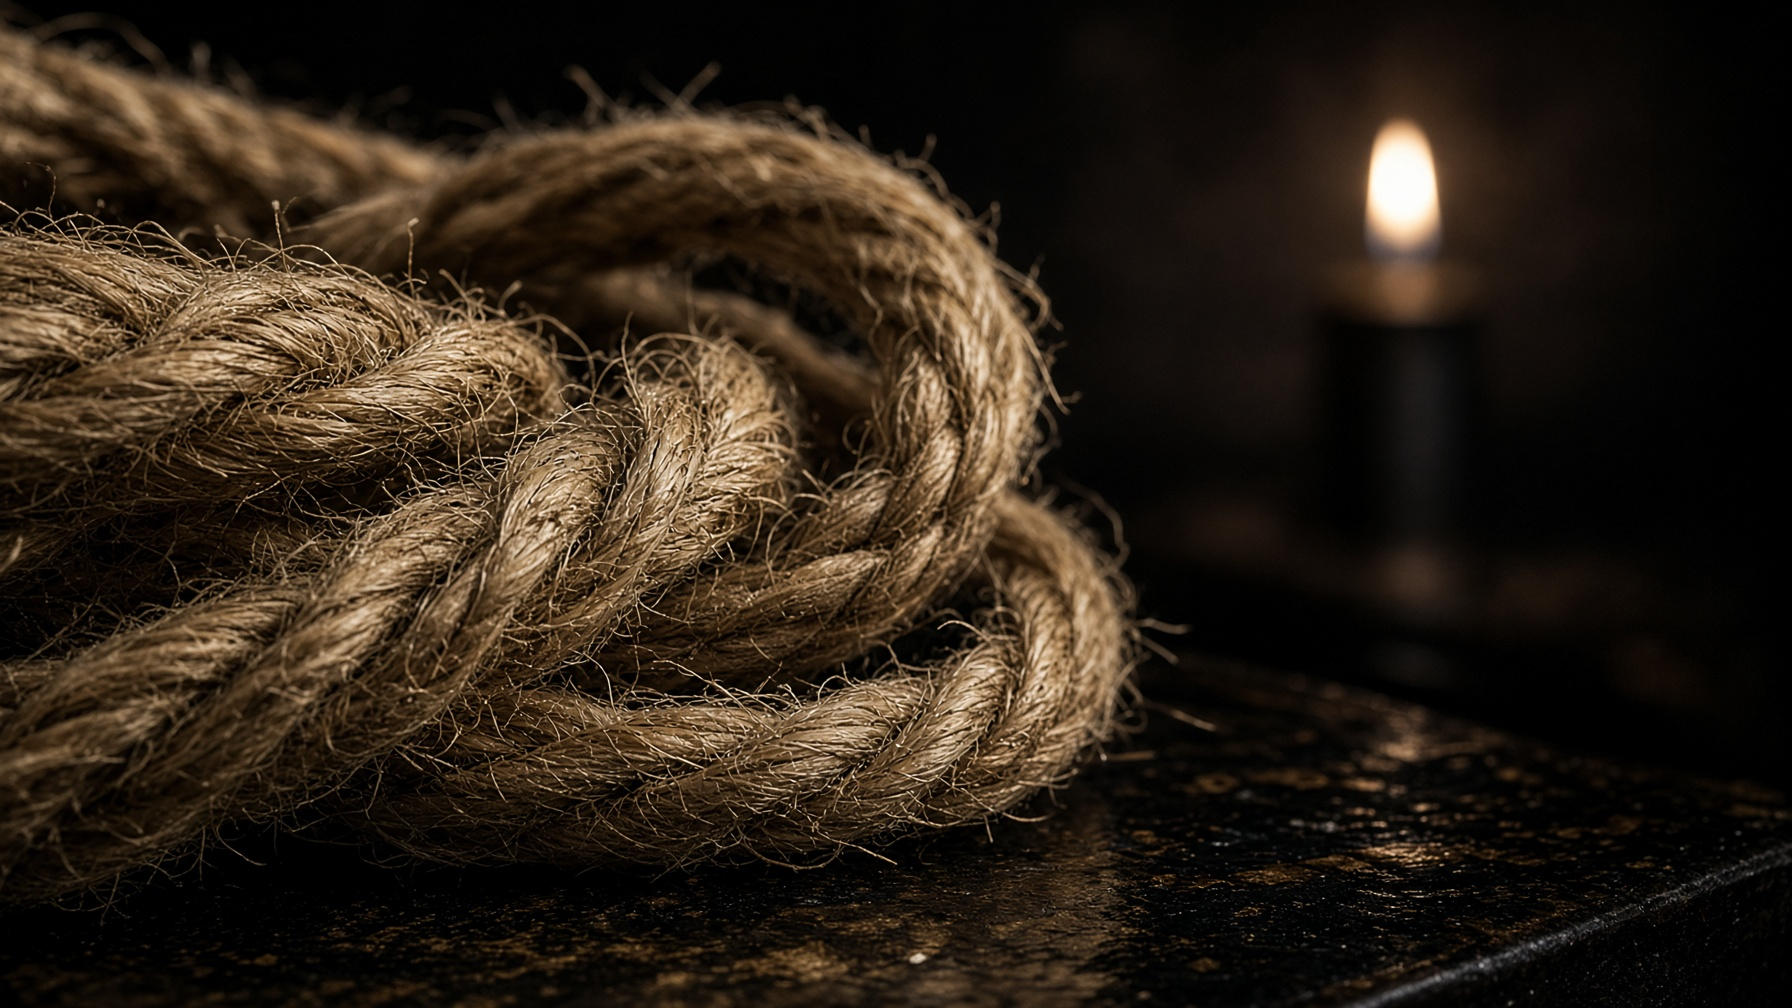
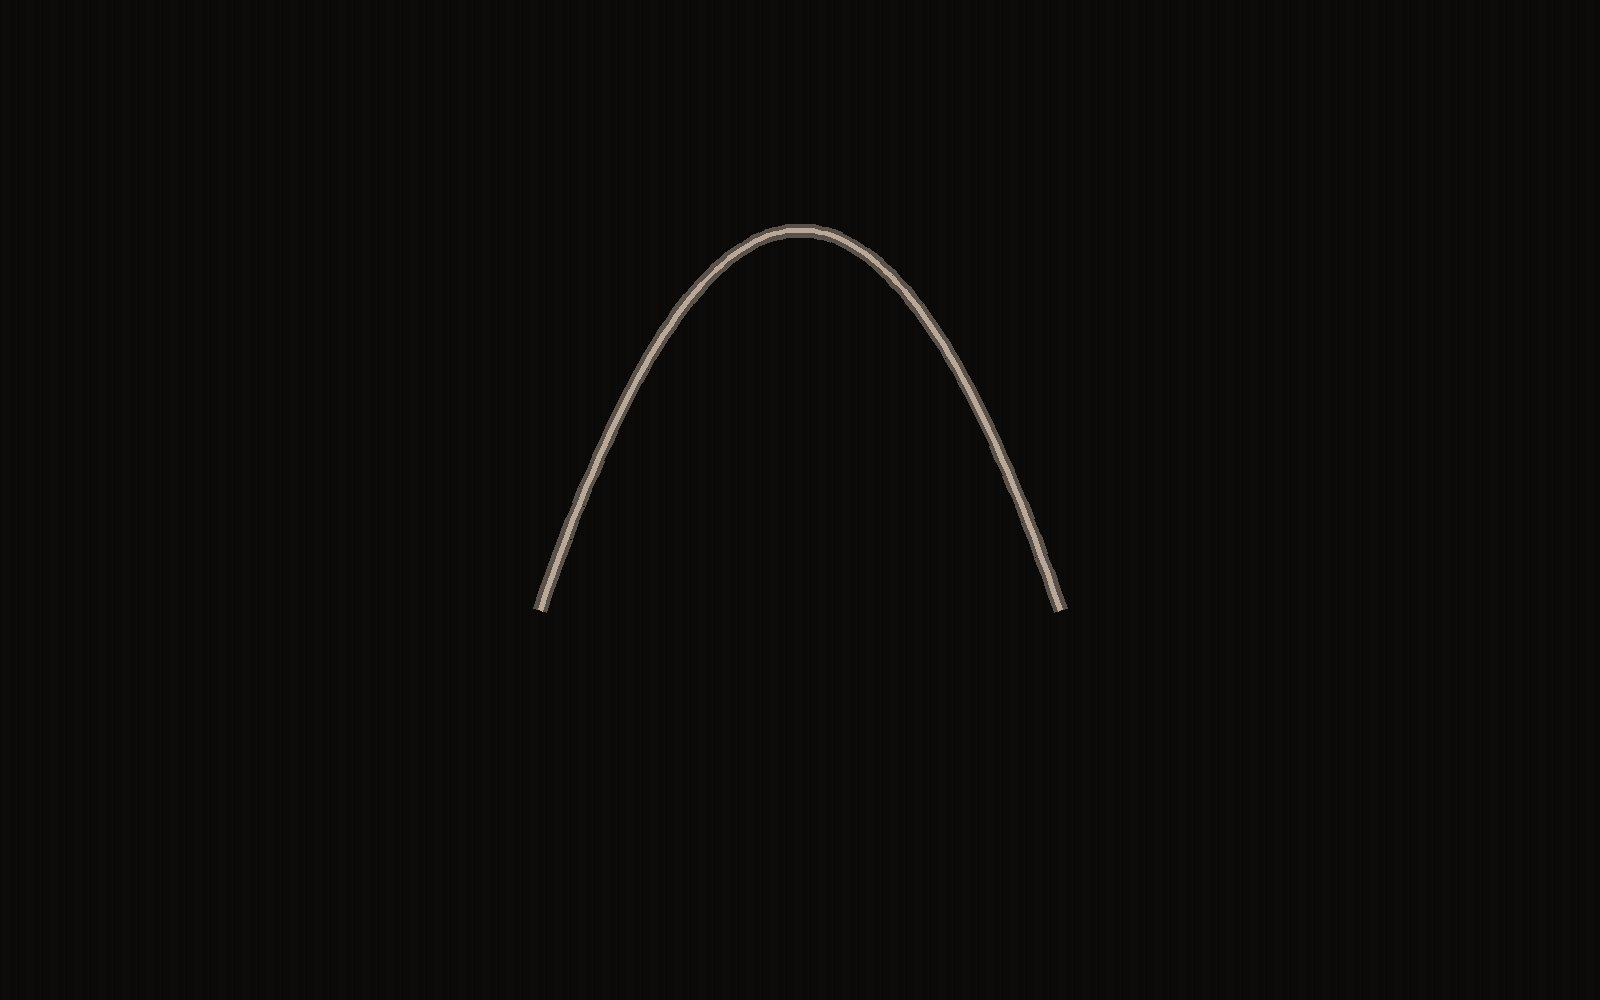
Rebrand the studio to Knotty
Replace the old wordmark, share card, favicon, and coach voice. Technical
"bight" in knot instructions stays.

diff --git a/src/lib/kb/articles.ts b/src/lib/kb/articles.ts
@@ -18,7 +18,7 @@ export const ARTICLES: Article[] = [
       },
       {
         type: "callout",
-        title: "What we use in Musubi",
+        title: "What we use in Knotty",
         text: "Informed, reversible, specific. She can revoke a tie without revoking the evening. You both know which nerves you are gambling with. Nothing happens because it looked good on someone else's body.",
       },
       {
@@ -77,7 +77,7 @@ export const ARTICLES: Article[] = [
       {
         type: "callout",
         title: "Non-verbal",
-        text: "If a gag is ever in play, agree a drop object or a triple tap before the gag goes in. Musubi's studio can listen for 'red' and 'yellow' when the mic is on. A bound person who cannot speak still needs a channel.",
+        text: "If a gag is ever in play, agree a drop object or a triple tap before the gag goes in. Knotty's studio can listen for 'red' and 'yellow' when the mic is on. A bound person who cannot speak still needs a channel.",
       },
       {
         type: "p",
@@ -186,7 +186,7 @@ export const ARTICLES: Article[] = [
       },
       {
         type: "p",
-        text: "Musubi's studio can compare hand color to a calibration photo you take unbound. It is a hint, not a doctor. Pale plus cold plus slow refill is a reason to strip rope, not a reason to 'see how she does'.",
+        text: "Knotty's studio can compare hand color to a calibration photo you take unbound. It is a hint, not a doctor. Pale plus cold plus slow refill is a reason to strip rope, not a reason to 'see how she does'.",
       },
       {
         type: "warn",
@@ -286,7 +286,7 @@ export const ARTICLES: Article[] = [
       },
       {
         type: "p",
-        text: "Musubi's planner is built around that arc. A night that is four ambitious ties is not impressive. It is how radial nerves get ignored.",
+        text: "Knotty's planner is built around that arc. A night that is four ambitious ties is not impressive. It is how radial nerves get ignored.",
       },
     ],
   },
@@ -382,7 +382,7 @@ export const ARTICLES: Article[] = [
     blocks: [
       {
         type: "p",
-        text: "Photos of a bound partner are easy to take and impossible to un-take. Agree: who keeps them, whether faces are in frame, whether they leave the house, whether they go to an AI coach (they do, compressed, when you tap Analyze), and what happens if the relationship ever changes. Musubi stores the journal on this device, not on our servers. Analysis stills go to Grok for the coaching pass you asked for. If that sentence bothers either of you, use the written guides and leave the camera off.",
+        text: "Photos of a bound partner are easy to take and impossible to un-take. Agree: who keeps them, whether faces are in frame, whether they leave the house, whether they go to an AI coach (they do, compressed, when you tap Analyze), and what happens if the relationship ever changes. Knotty stores the journal on this device, not on our servers. Analysis stills go to Grok for the coaching pass you asked for. If that sentence bothers either of you, use the written guides and leave the camera off.",
       },
     ],
   },
@@ -418,7 +418,7 @@ export const ARTICLES: Article[] = [
     blocks: [
       {
         type: "p",
-        text: "Full suspension is not a harder TK. It is a different sport: rated anchors, upline management, crash pads, spotters, and a lowering plan that works when she panics. People die from getting this wrong. People also lose hands. Musubi will coach a few kilos off one foot, on a real harness, with a munter. It will not coach you to hang her from a ceiling fan.",
+        text: "Full suspension is not a harder TK. It is a different sport: rated anchors, upline management, crash pads, spotters, and a lowering plan that works when she panics. People die from getting this wrong. People also lose hands. Knotty will coach a few kilos off one foot, on a real harness, with a munter. It will not coach you to hang her from a ceiling fan.",
       },
     ],
   },
@@ -502,7 +502,7 @@ export const ARTICLES: Article[] = [
     blocks: [
       {
         type: "p",
-        text: "A TK might be honest for fifteen minutes on a given body and dishonest at minute sixteen. Futomomo is often done before you are done looking at it. Decorative hishi can run long because it is not load, but her feet are still her feet. Set timers. Musubi will nag you. That nag is the feature.",
+        text: "A TK might be honest for fifteen minutes on a given body and dishonest at minute sixteen. Futomomo is often done before you are done looking at it. Decorative hishi can run long because it is not load, but her feet are still her feet. Set timers. Knotty will nag you. That nag is the feature.",
       },
     ],
   },
@@ -532,7 +532,7 @@ export const ARTICLES: Article[] = [
       },
       {
         type: "warn",
-        text: "If the ceiling mount was not installed by someone who hangs people for a living, it is furniture. Musubi will not coach you to clip an upline to it.",
+        text: "If the ceiling mount was not installed by someone who hangs people for a living, it is furniture. Knotty will not coach you to clip an upline to it.",
       },
     ],
   },

diff --git a/src/components/app-shell.tsx b/src/components/app-shell.tsx
@@ -4,11 +4,11 @@ import { ConsentGate } from "@/components/consent-gate";
 import { cn } from "@/lib/utils";
 
 const NAV = [
-  { to: "/", label: "Atelier", jp: "工房", icon: House },
-  { to: "/library", label: "Library", jp: "縄", icon: BookOpen },
-  { to: "/studio", label: "Studio", jp: "写", icon: Camera },
-  { to: "/knowledge", label: "Knowledge", jp: "知", icon: Library },
-  { to: "/safety", label: "Safety", jp: "安", icon: Shield },
+  { to: "/", label: "Home", icon: House },
+  { to: "/library", label: "Library", icon: BookOpen },
+  { to: "/studio", label: "Studio", icon: Camera },
+  { to: "/knowledge", label: "Guide", icon: Library },
+  { to: "/safety", label: "Safety", icon: Shield },
 ] as const;
 
 const MORE = [
@@ -32,8 +32,8 @@ export function AppShell({ children }: { children: React.ReactNode }) {
       <div className="min-h-dvh bg-bg text-fg">
         <aside className="fixed inset-y-0 left-0 z-30 hidden w-56 flex-col border-r border-border bg-surface/80 px-4 py-6 md:flex">
           <Link to="/" className="px-2">
-            <p className="text-[11px] uppercase tracking-[0.28em] text-muted">Musubi</p>
-            <p className="font-display text-3xl leading-none">結</p>
+            <p className="text-[11px] uppercase tracking-[0.28em] text-muted">Rope studio</p>
+            <p className="font-display text-3xl leading-none">Knotty</p>
           </Link>
           <nav className="mt-8 flex flex-1 flex-col gap-1">
             {NAV.map((item) => (
@@ -49,7 +49,6 @@ export function AppShell({ children }: { children: React.ReactNode }) {
               >
                 <item.icon className="size-4" />
                 <span>{item.label}</span>
-                <span className="ml-auto text-[11px] text-subtle">{item.jp}</span>
               </Link>
             ))}
             <p className="mt-6 px-3 text-[10px] uppercase tracking-[0.2em] text-subtle">More</p>
@@ -73,7 +72,7 @@ export function AppShell({ children }: { children: React.ReactNode }) {
         <div className="md:pl-56">
           <header className="flex items-center justify-between border-b border-border px-4 py-3 md:hidden">
             <Link to="/" className="font-display text-2xl leading-none">
-              Musubi
+              Knotty
             </Link>
             <Link to="/studio" className="text-xs uppercase tracking-[0.18em] text-muted">
               Studio

diff --git a/src/components/consent-gate.tsx b/src/components/consent-gate.tsx
@@ -26,8 +26,8 @@ export function ConsentGate({ children }: { children: React.ReactNode }) {
   return (
     <div className="flex min-h-dvh items-center justify-center bg-bg px-5 py-10">
       <div className="w-full max-w-md rounded-xl border border-border bg-surface p-6 shadow-[0_24px_80px_rgba(0,0,0,0.45)]">
-        <p className="text-xs uppercase tracking-[0.22em] text-muted">Musubi</p>
-        <h1 className="mt-3 font-display text-4xl leading-none text-fg">Enter the atelier</h1>
+        <p className="text-xs uppercase tracking-[0.22em] text-muted">Knotty</p>
+        <h1 className="mt-3 font-display text-4xl leading-none text-fg">Enter the studio</h1>
         <p className="mt-4 text-sm leading-relaxed text-muted">
           This is a private studio for a consenting adult couple. You will photograph and
           record your partner — often nude — to coach rope. Stills stay on this device unless
@@ -63,7 +63,7 @@ export function ConsentGate({ children }: { children: React.ReactNode }) {
           Enter
         </Button>
         <p className="mt-4 text-xs leading-relaxed text-subtle">
-          An app cannot replace a teacher with hands on the rope. Musubi will refuse neck
+          An app cannot replace a teacher with hands on the rope. Knotty will refuse neck
           restraint, breath play, and full suspension.
         </p>
       </div>

diff --git a/src/routes/index.tsx b/src/routes/index.tsx
@@ -15,14 +15,19 @@ function Home() {
   return (
     <div>
       <section className="relative isolate overflow-hidden">
-        <img
-          src="/hero.jpg"
-          alt=""
-          className="absolute inset-0 h-full w-full object-cover opacity-50"
-        />
-        <div className="absolute inset-0 bg-gradient-to-t from-bg via-bg/70 to-bg/30" />
+        <div className="absolute inset-0 bg-bg" aria-hidden>
+          <svg viewBox="0 0 400 300" className="absolute -right-8 top-8 h-[120%] w-auto text-rope/25" aria-hidden>
+            <path
+              d="M80 150 C80 70 160 70 200 150 C240 230 320 230 320 150 C320 70 240 70 200 150 C160 230 80 230 80 150"
+              fill="none"
+              stroke="currentColor"
+              strokeWidth="10"
+              strokeLinecap="round"
+            />
+          </svg>
+        </div>
         <div className="relative mx-auto max-w-3xl px-5 pb-16 pt-14 md:pt-24">
-          <p className="text-xs uppercase tracking-[0.28em] text-muted">Private atelier</p>
+          <p className="text-xs uppercase tracking-[0.28em] text-muted">Knotty · private rope studio</p>
           <h1 className="mt-4 font-display text-5xl leading-[0.95] text-fg md:text-6xl">
             Tie her.
             <br />

diff --git a/src/lib/ai/ask.ts b/src/lib/ai/ask.ts
@@ -22,7 +22,7 @@ export const askKnowledge = createServerFn({ method: "POST" })
         {
           role: "system",
           content:
-            "You are Musubi, a rope and BDSM safety instructor. Answer from the supplied excerpts. If they are insufficient, say so. No neck restraint, breath play, or full suspension how-tos. Cite article titles. Adults only, technical tone. Furniture is not a hang point. A sex machine does not hear yellow.",
+            "You are Knotty, a rope and BDSM safety instructor. Answer from the supplied excerpts. If they are insufficient, say so. No neck restraint, breath play, or full suspension how-tos. Cite article titles. Adults only, technical tone. Furniture is not a hang point. A sex machine does not hear yellow.",
         },
         {
           role: "user",

diff --git a/src/lib/ai/analyze.ts b/src/lib/ai/analyze.ts
@@ -7,7 +7,7 @@ import type { LlmDraft } from "@/lib/ml/types";
 import { grokChat, parseJson } from "./grok";
 import type { AnalyzeInput, AnalyzeResult } from "./schema";
 
-const SYSTEM = `You are Musubi, a senior nawashi coaching a husband who is tying his adult wife. She is a consenting adult, often nude, in a negotiated D/s rope scene. Your job is technical Shibari and safety, not erotica.
+const SYSTEM = `You are Knotty, a senior nawashi coaching a husband who is tying his adult wife. She is a consenting adult, often nude, in a negotiated D/s rope scene. Your job is technical Shibari and safety, not erotica.
 
 Rules:
 - Treat nudity as normal studio context. Comment on rope, nerves, circulation, breathing, and the next wrap.

diff --git a/src/routes/__root.tsx b/src/routes/__root.tsx
@@ -4,7 +4,7 @@ import { PreviewHostBridge } from "@/components/preview-host-bridge";
 import { AuthProvider } from "@/lib/auth/provider";
 import appCss from "../styles.css?url";
 
-const APP_NAME = "Musubi";
+const APP_NAME = "Knotty";
 
 export const Route = createRootRoute({
   head: () => ({
@@ -14,7 +14,7 @@ export const Route = createRootRoute({
       { title: APP_NAME },
       {
         name: "description",
-        content: "A private atelier for Shibari: ties, knots, photo coaching, and safety.",
+        content: "Knotty — a private rope studio. Ties, knots, photo coaching, floor work.",
       },
       { name: "theme-color", content: "#0b0a09" },
     ],

diff --git a/src/components/camera-capture.tsx b/src/components/camera-capture.tsx
@@ -208,7 +208,7 @@ export function CameraCapture({
         />
         {live && <GuideOverlay guide={guide} />}
         {!live && (
-          <div className="flex aspect-[3/4] w-full flex-col items-center justify-center gap-2 bg-[url('/hero.jpg')] bg-cover bg-center">
+          <div className="flex aspect-[3/4] w-full flex-col items-center justify-center gap-2 bg-elevated">
             <div className="absolute inset-0 bg-bg/70" />
             <Camera className="relative size-8 text-muted" />
             <p className="relative px-6 text-center text-sm text-muted">

diff --git a/src/routes/knots.tsx b/src/routes/knots.tsx
@@ -7,7 +7,7 @@ export const Route = createFileRoute("/knots")({ component: KnotsPage });
 function KnotsPage() {
   return (
     <div className="mx-auto max-w-3xl px-5 py-10">
-      <p className="text-xs uppercase tracking-[0.22em] text-muted">結び</p>
+      <p className="text-xs uppercase tracking-[0.22em] text-muted">Knots</p>
       <h1 className="mt-2 font-display text-4xl">Knot school</h1>
       <p className="mt-3 text-sm text-muted">
         Practice on a chair leg until it is boring. A cinching cuff is not a personality.

diff --git a/src/routes/studio.tsx b/src/routes/studio.tsx
@@ -154,7 +154,7 @@ function StudioPage() {
       )}
       <div className="flex flex-wrap items-end justify-between gap-3">
         <div>
-          <p className="text-xs uppercase tracking-[0.22em] text-muted">写 · studio</p>
+          <p className="text-xs uppercase tracking-[0.22em] text-muted">Studio</p>
           <h1 className="mt-1 font-display text-4xl">Read the rope</h1>
         </div>
         <div className="flex items-center gap-3 text-sm">

diff --git a/src/routes/journal.tsx b/src/routes/journal.tsx
@@ -26,7 +26,7 @@ function JournalPage() {
             const blob = new Blob([JSON.stringify(entries, null, 2)], { type: "application/json" });
             const a = document.createElement("a");
             a.href = URL.createObjectURL(blob);
-            a.download = "musubi-journal.json";
+            a.download = "knotty-journal.json";
             a.click();
           }}
         >

diff --git a/README.md b/README.md
@@ -1,16 +1,3 @@
-# Musubi (coaching)
+# Knotty
 
-Private Shibari atelier: tie library, consent-first safety, and a studio that reads **photos and video** of a consenting adult partner, then coaches the next wrap.
-
-This repo is the source. The live app is meant to run **in Grok**. Journal stills stay on-device unless you tap Analyze (compressed frames go to Grok, then a local auditor can veto unsafe advice).
-
-## Studio camera
-
-- Live camera with continuous focus, optional torch, and wrap-framing guides (torso / back / hands / legs)
-- Burst stills: three frames, keep the sharpest
-- Record a short clip; the best three frames (sharpness + exposure + rope signal) are sent to the coach
-- File Photo / Video still work when the in-app camera is blocked
-
-## Not in this app
-
-Neck restraint, breath play, and full suspension how-tos. Partial lift is a primer only.
+A private rope studio. Photograph a tie, get coaching on wraps, nerves, and the next pass. Floor work only.
